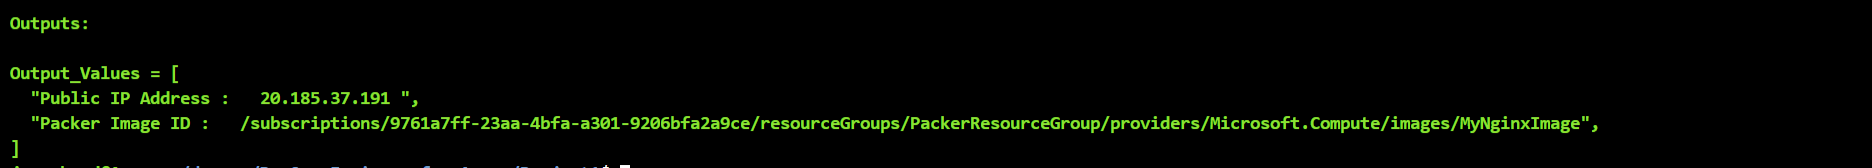
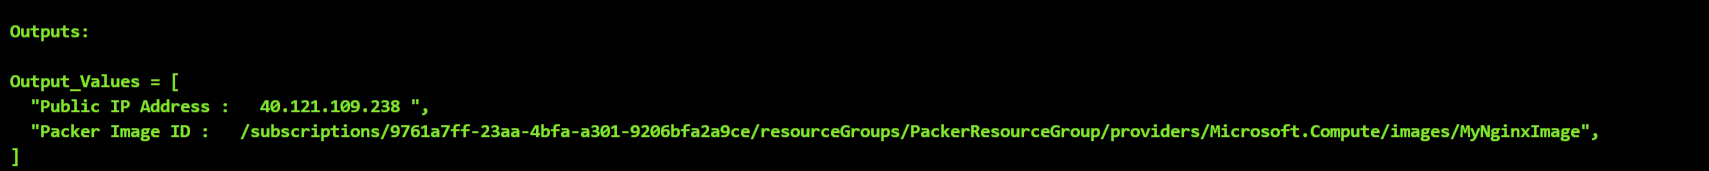
[WebServer] Adding the changes as per review

diff --git a/Project1/README.md b/Project1/README.md
@@ -34,7 +34,7 @@
 	7. Creating the Availability Set.
 	8. Creating the Virtual machines with image created by the packer.
 	9. Creating the managed disks for the Virtual machines.
-	10. prefix, location and instance_count are the configurable parameters.
+	10. prefix, image_id, location and instance_count are the configurable parameters.
 	
 
 ### Dependencies
@@ -65,21 +65,24 @@ Following are the commands used for packer and terraform
 	4. Run terraform apply -var-file=variables.tfvars -lock=false or terraform apply solution.plan to apply the plan and deploy the infrastructure.
 	5. Run terraform destroy -var-file=variables.tfvars -lock=false to delete the infrastructure.
 
+
+### Usage of variables  in variables.tf and variable.tfvars
+	
+	The variables.tf file contains definition of each variable used by Terraform. This file provides description and purpose or usage of each variable with default values.
+	To override the default values in variables.tf, there is one more file called variables.tfvars is passed to terraform as shown below example.
+       	
+	EX:  terraform plan -var-file=variables.tfvars -lock=false
+
 ### Output
 
   Following are the example output values after deploying the infrastructure with terraform.
-
+  
   Outputs:
 
   Output_Values = [
-    
-    "Public IP Address :   20.185.37.191 ",
-    
-    "Packer Image ID :   /subscriptions/9761a7ff-23aa-4bfa-a301-9206bfa2a9ce/resourceGroups/PackerResourceGroup/providers/Microsoft.Compute/images/MyNginxImage",
-  
+
+	"Public IP Address :   40.121.109.238 ",
+	"Packer Image ID :   /subscriptions/9761a7ff-23aa-4bfa-a301-9206bfa2a9ce/resourceGroups/PackerResourceGroup/providers/Microsoft.Compute/images/MyNginxImage",
   ]
-
-
-
-
+  
 
